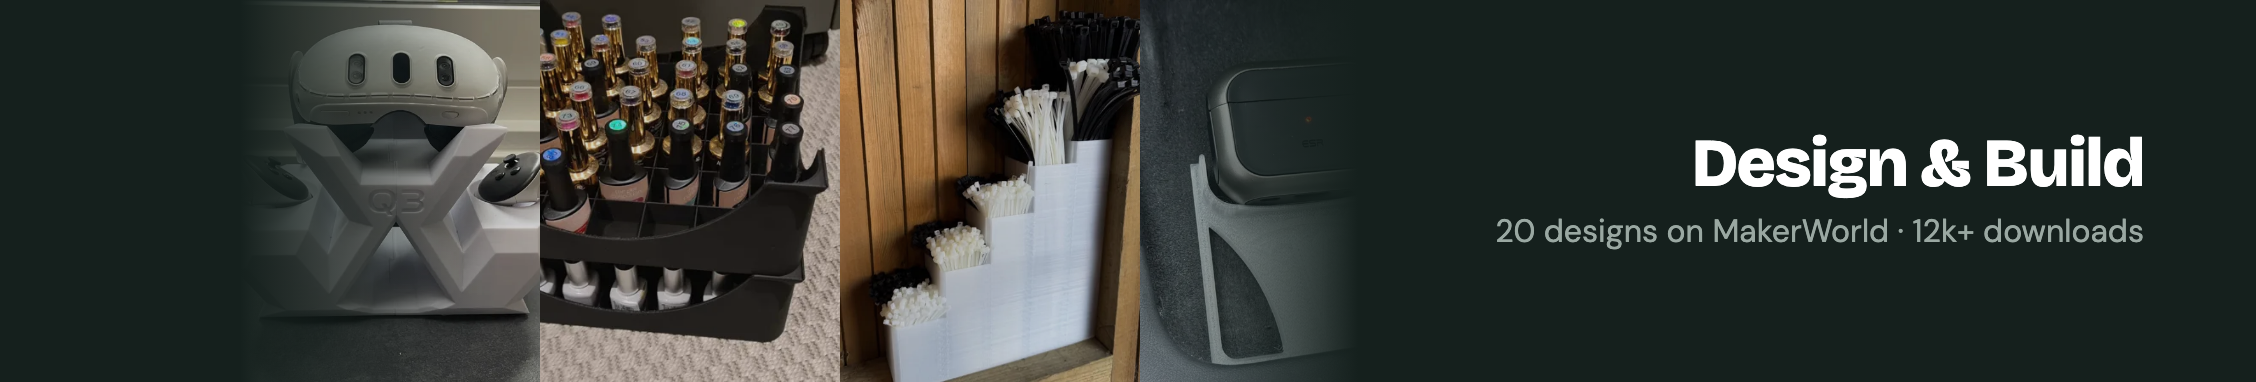
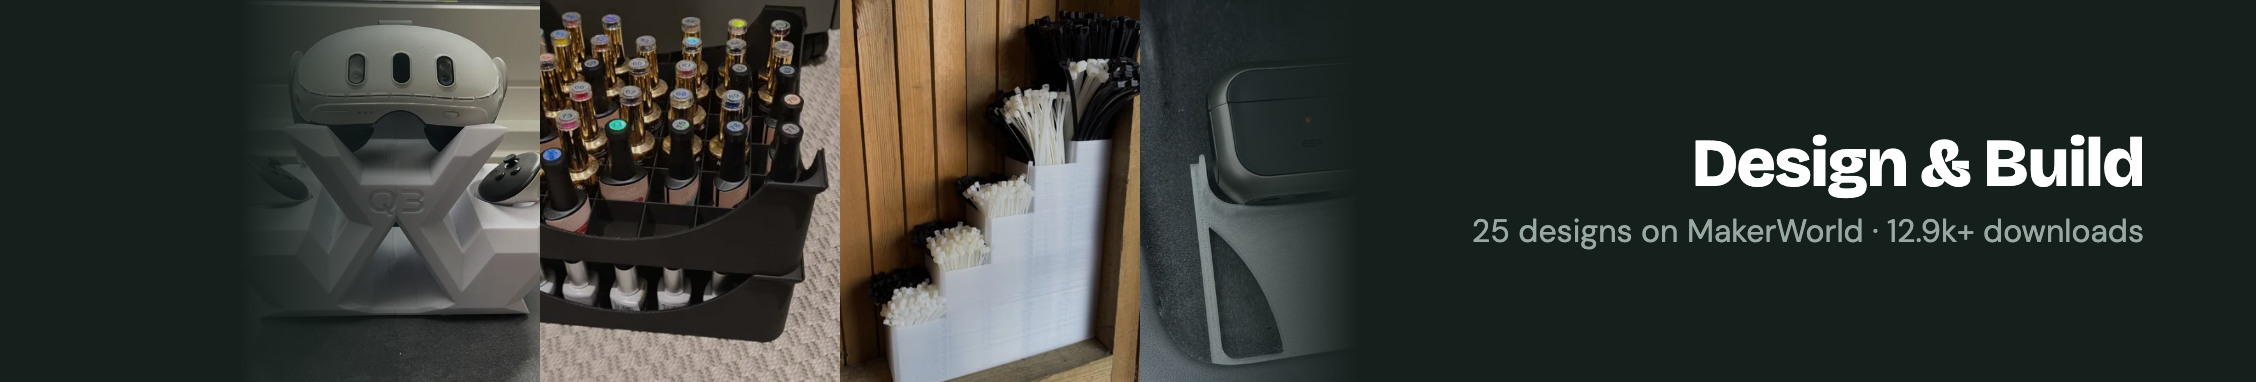
Brand photo-strip cover: 25 designs · 12.9k+ downloads

Changed region(s): [[0.6516, 0.5759, 0.8688, 0.6623]]

diff --git a/brand/covers-source.html b/brand/covers-source.html
@@ -87,7 +87,7 @@
 <div class="cover c4">
   <div class="strip"><img src="quest-stand.webp"><img src="nail-polish.webp"><img src="zip-tie.webp"><img src="tesla-airpods.webp"></div>
   <div class="fade"></div><div class="fade2"></div>
-  <div class="tag"><h1>Design &amp; Build</h1><p>20 designs on MakerWorld · 12k+ downloads</p></div>
+  <div class="tag"><h1>Design &amp; Build</h1><p>25 designs on MakerWorld · 12.9k+ downloads</p></div>
 </div>
 
 </body></html>
